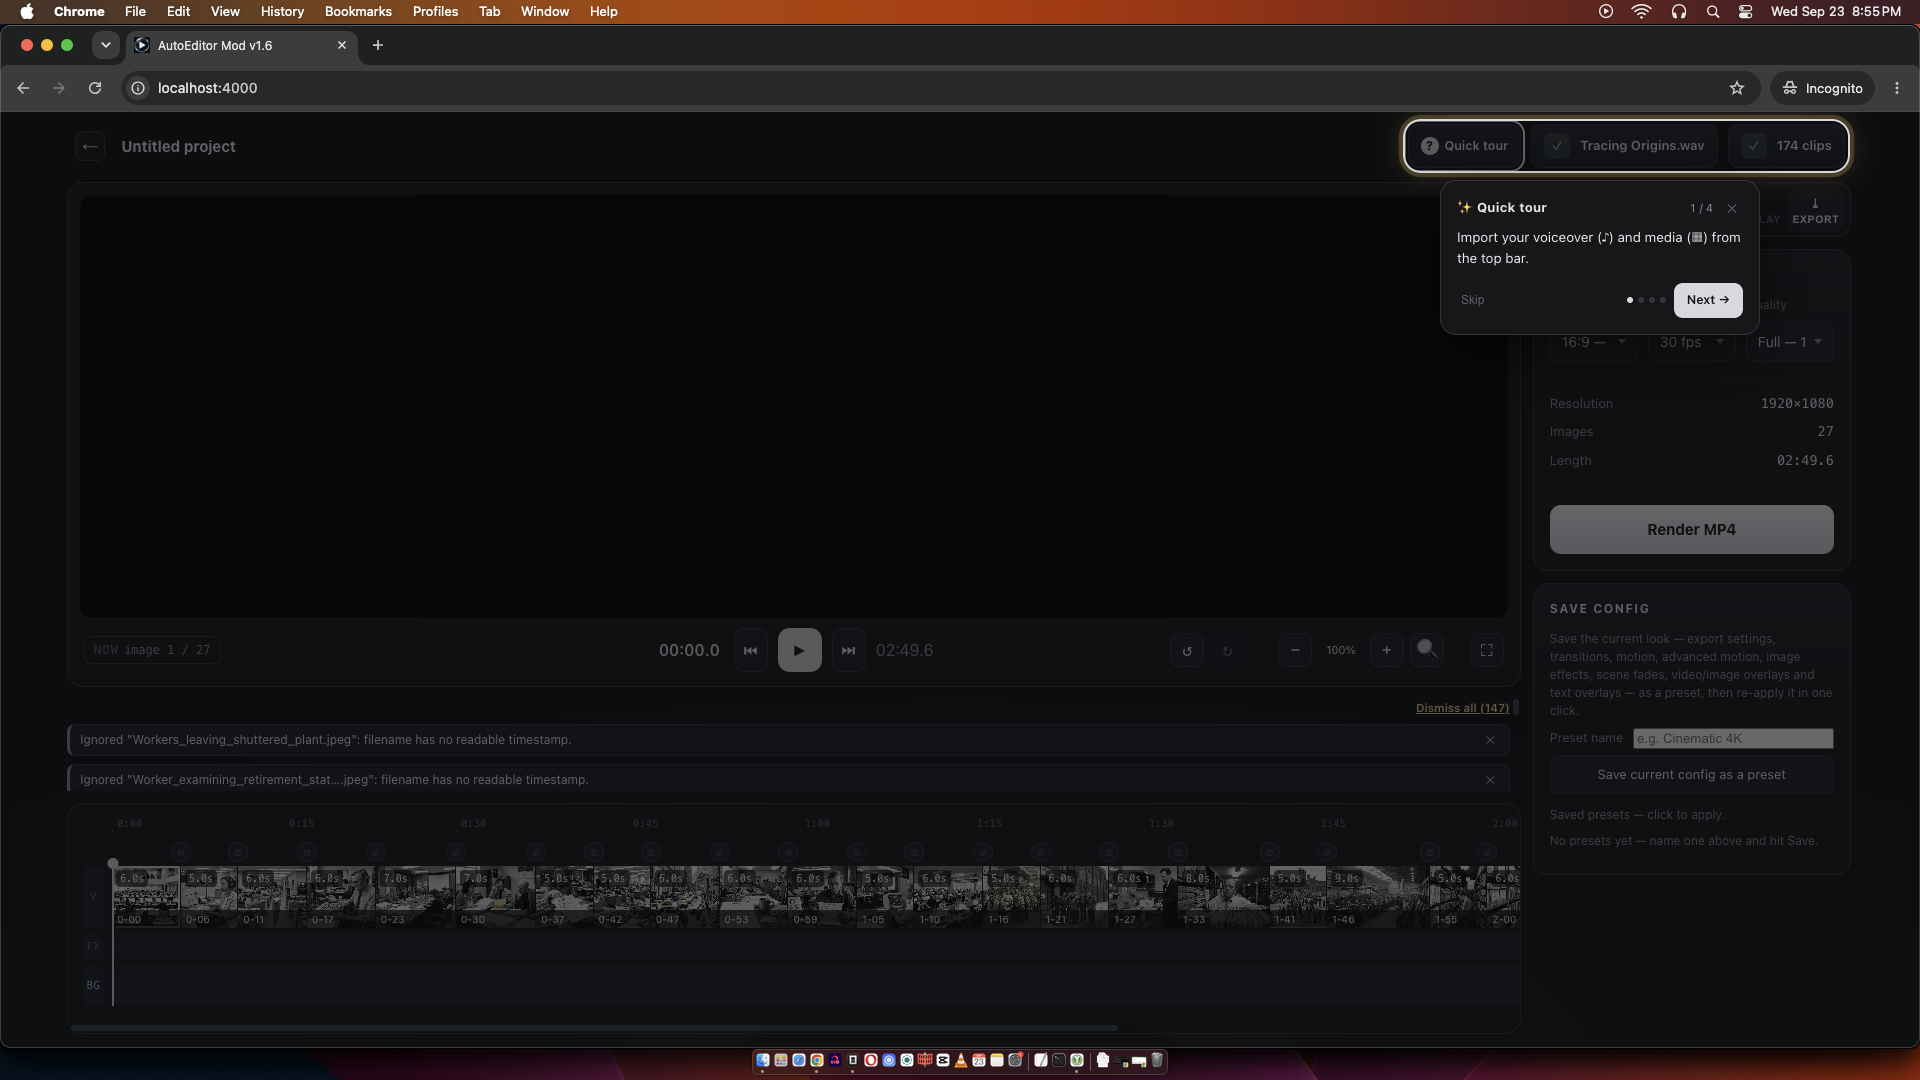
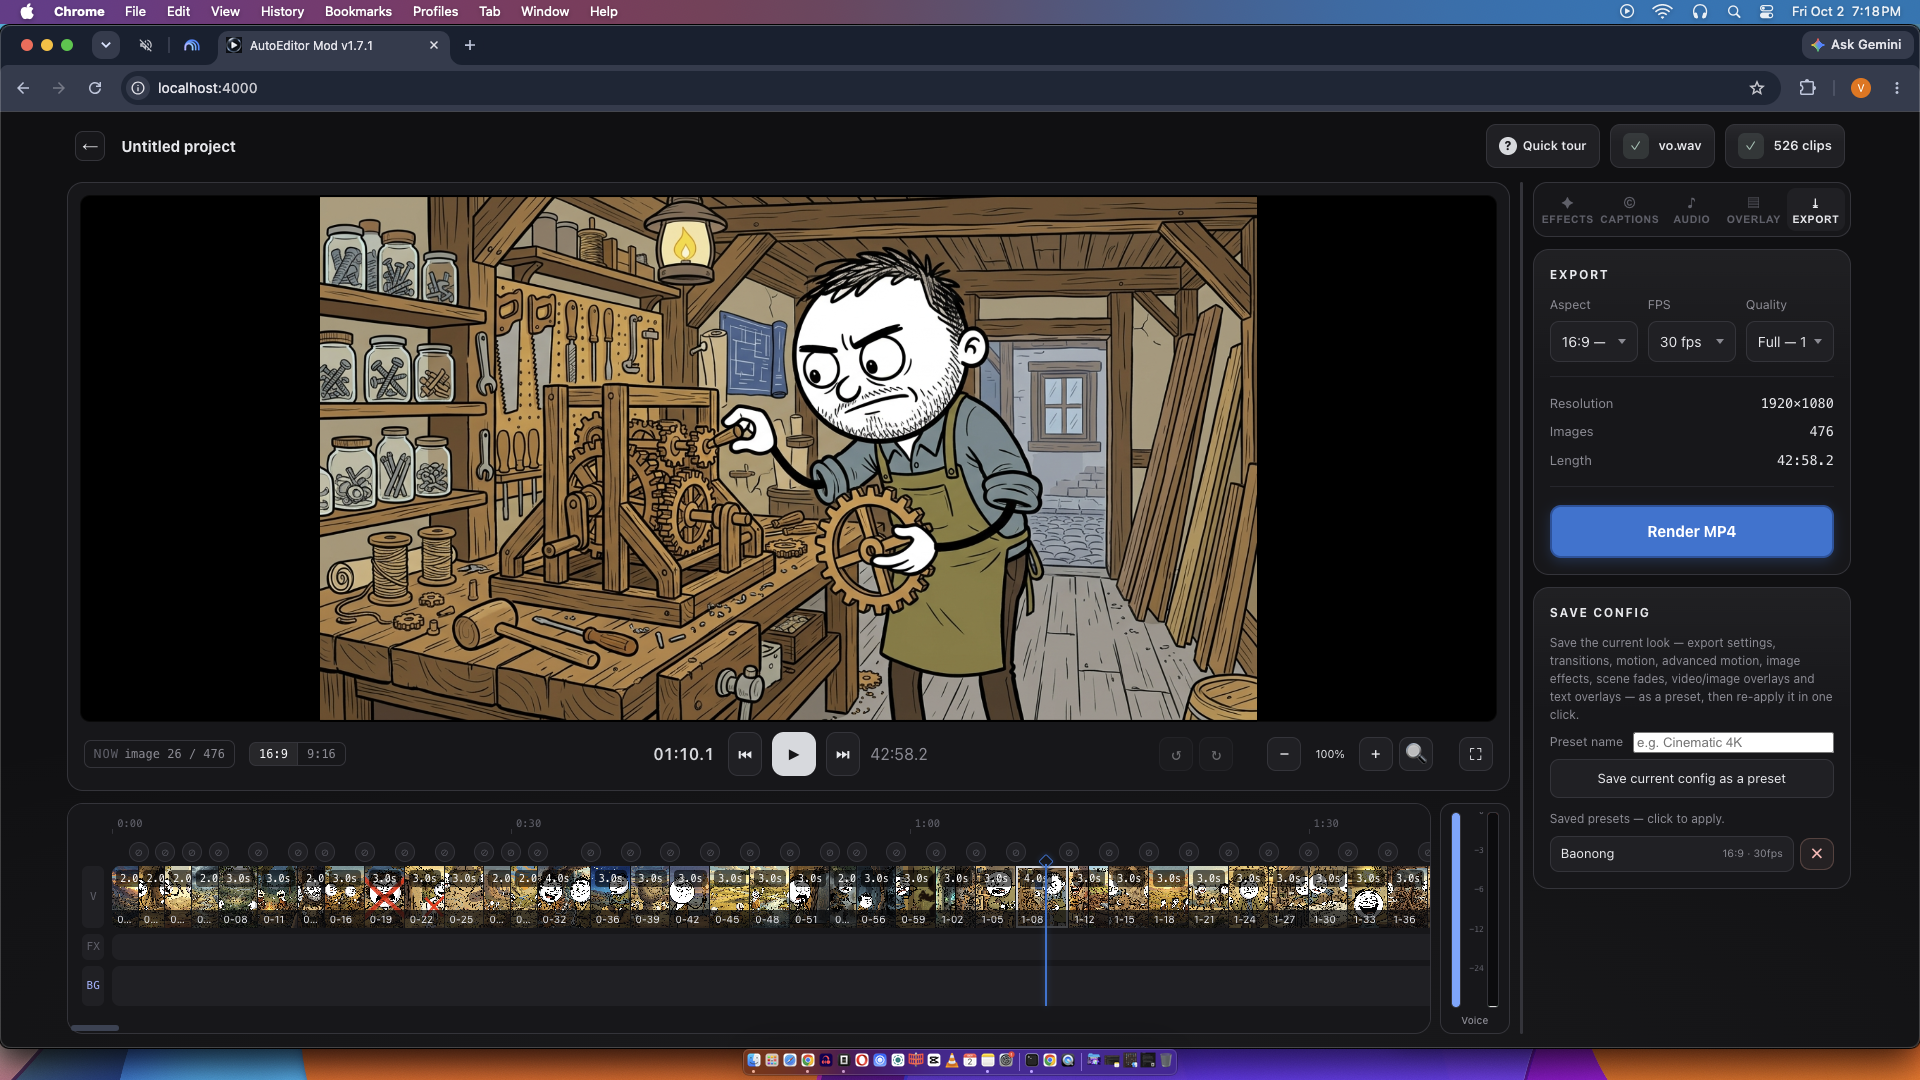
Refresh the README screenshots
Replace the three older editor captures with the current ones and embed
the two new frames as well, so the Screenshots section shows all five.
The files keep the 1.png..5.png naming, so the README URLs are unchanged;
the originals are gone.

diff --git a/README.md b/README.md
@@ -10,6 +10,10 @@ Turn timestamp-named images plus a voiceover into an MP4 — entirely on your ow
 
 <img src="screenshots/3.png" width="720" alt="AutoEditor Mod — editor" />
 
+<img src="screenshots/4.png" width="720" alt="AutoEditor Mod — editor" />
+
+<img src="screenshots/5.png" width="720" alt="AutoEditor Mod — editor" />
+
 ## Features
 
 - **Image Effects** — apply one of 12 effects per clip (B&W, Sepia, Warm, Cool, Film Grain, Noise, Heavy Noise, Vignette, VHS, Grunge, Dust) with an intensity slider.
